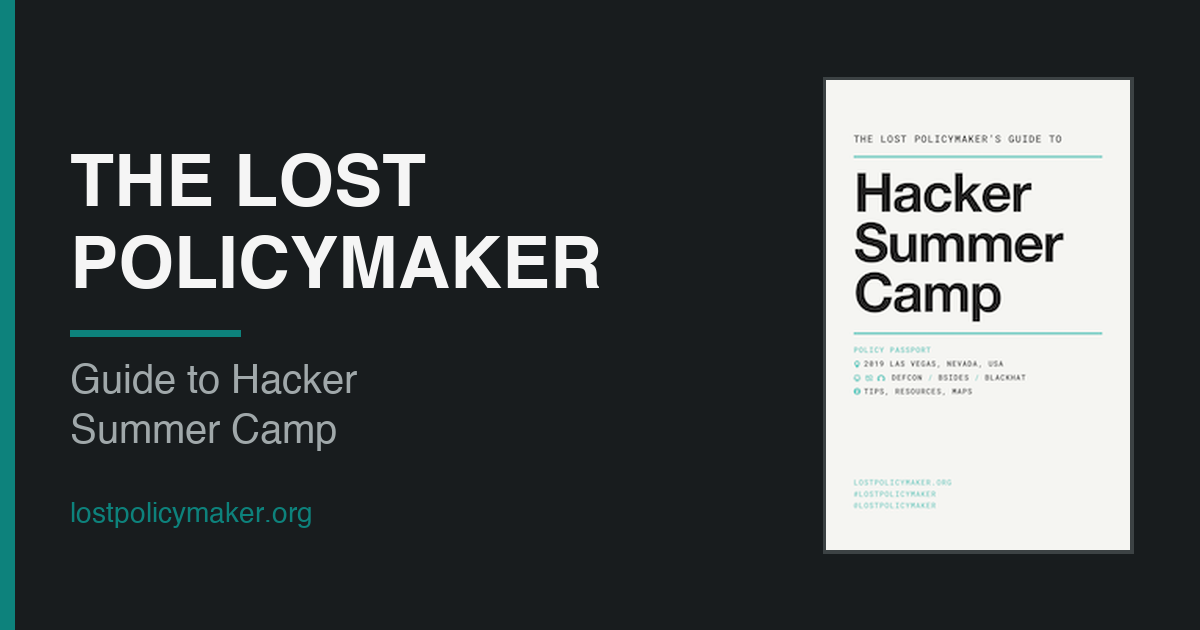
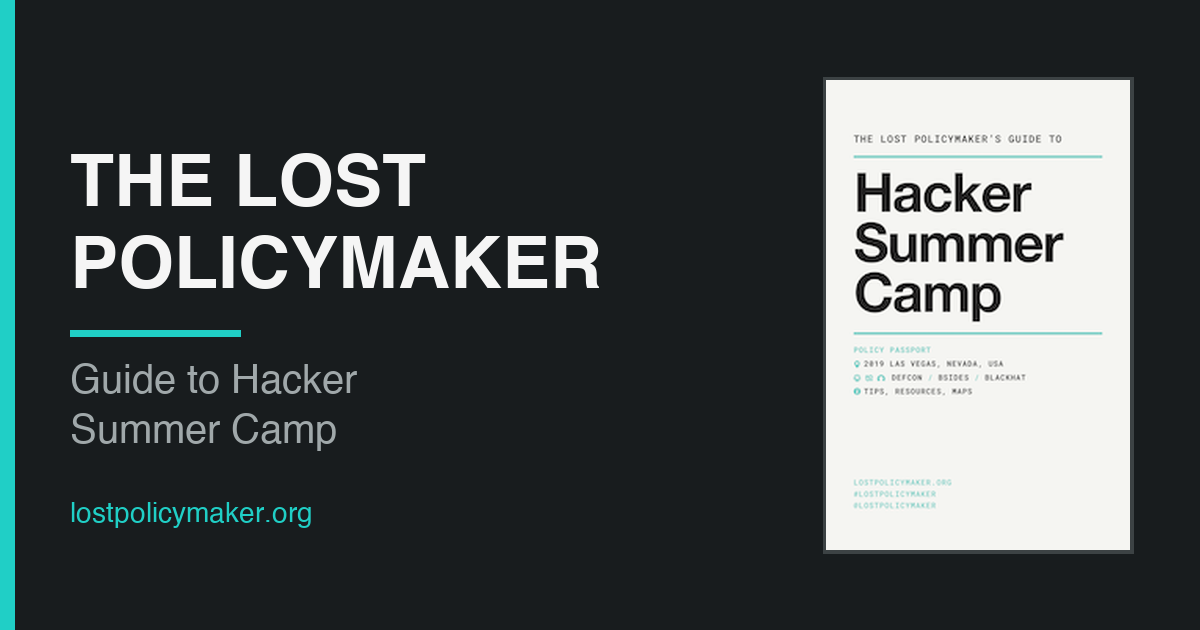
Default to light mode; restore the signature turquoise
- Light is now the default theme regardless of system preference;
  dark applies only when the visitor toggles it (persisted choice)
- Restore the original bright turquoise (#20CFC6) for links and
  accents everywhere - it pops the way the site should - with the
  classic #0085A1 hover in light and a lighter hover in dark
- Regenerate the social share card with the turquoise accent

Changed region(s): [[0.0, 0.0, 0.0308, 1.0], [0.0617, 0.7841, 0.2775, 0.8444], [0.0617, 0.5127, 0.2158, 0.5429]]

diff --git a/css/acks.css b/css/acks.css
@@ -3,15 +3,9 @@
 .biossocial,
 .biossocial a,
 .acktitle {
-  color: #0d827c;
+  color: #20CFC6;
 }
 
 .biossocial a {
   font-family: monospace;
-}
-
-[data-bs-theme="dark"] .biossocial,
-[data-bs-theme="dark"] .biossocial a,
-[data-bs-theme="dark"] .acktitle {
-  color: #3fd0c9;
 }

diff --git a/css/main.css b/css/main.css
@@ -806,9 +806,6 @@ pre {
   background-color: var(--bs-body-bg);
   color: var(--bs-body-color);
 }
-[data-bs-theme="dark"] a {
-  color: #3fd0c9;
-}
 [data-bs-theme="dark"] a:hover,
 [data-bs-theme="dark"] a:focus {
   color: #7fe0da;
@@ -829,7 +826,7 @@ pre {
     rgba(255,255,255,0.07), rgba(255,255,255,0.07) 1.5em, rgba(255,255,255,0.03) 1.5em, rgba(255,255,255,0.03) 3em);
   background-size: auto 3em;
   border: 1px solid var(--bs-border-color);
-  border-left: 7px solid #3fd0c9;
+  border-left: 7px solid #20CFC6;
 }
 [data-bs-theme="dark"] .btn-outline-dark {
   --bs-btn-color: var(--bs-body-color);

diff --git a/_includes/head.html b/_includes/head.html
@@ -5,8 +5,8 @@
   <!-- Set color theme before first paint to avoid a flash of the wrong theme -->
   <script>
     (function () {
-      var stored = localStorage.getItem('lp-theme');
-      var theme = stored || (window.matchMedia('(prefers-color-scheme: dark)').matches ? 'dark' : 'light');
+      // Light is the site default; dark only when the visitor has chosen it
+      var theme = localStorage.getItem('lp-theme') || 'light';
       document.documentElement.setAttribute('data-bs-theme', theme);
     })();
     function lpToggleTheme() {